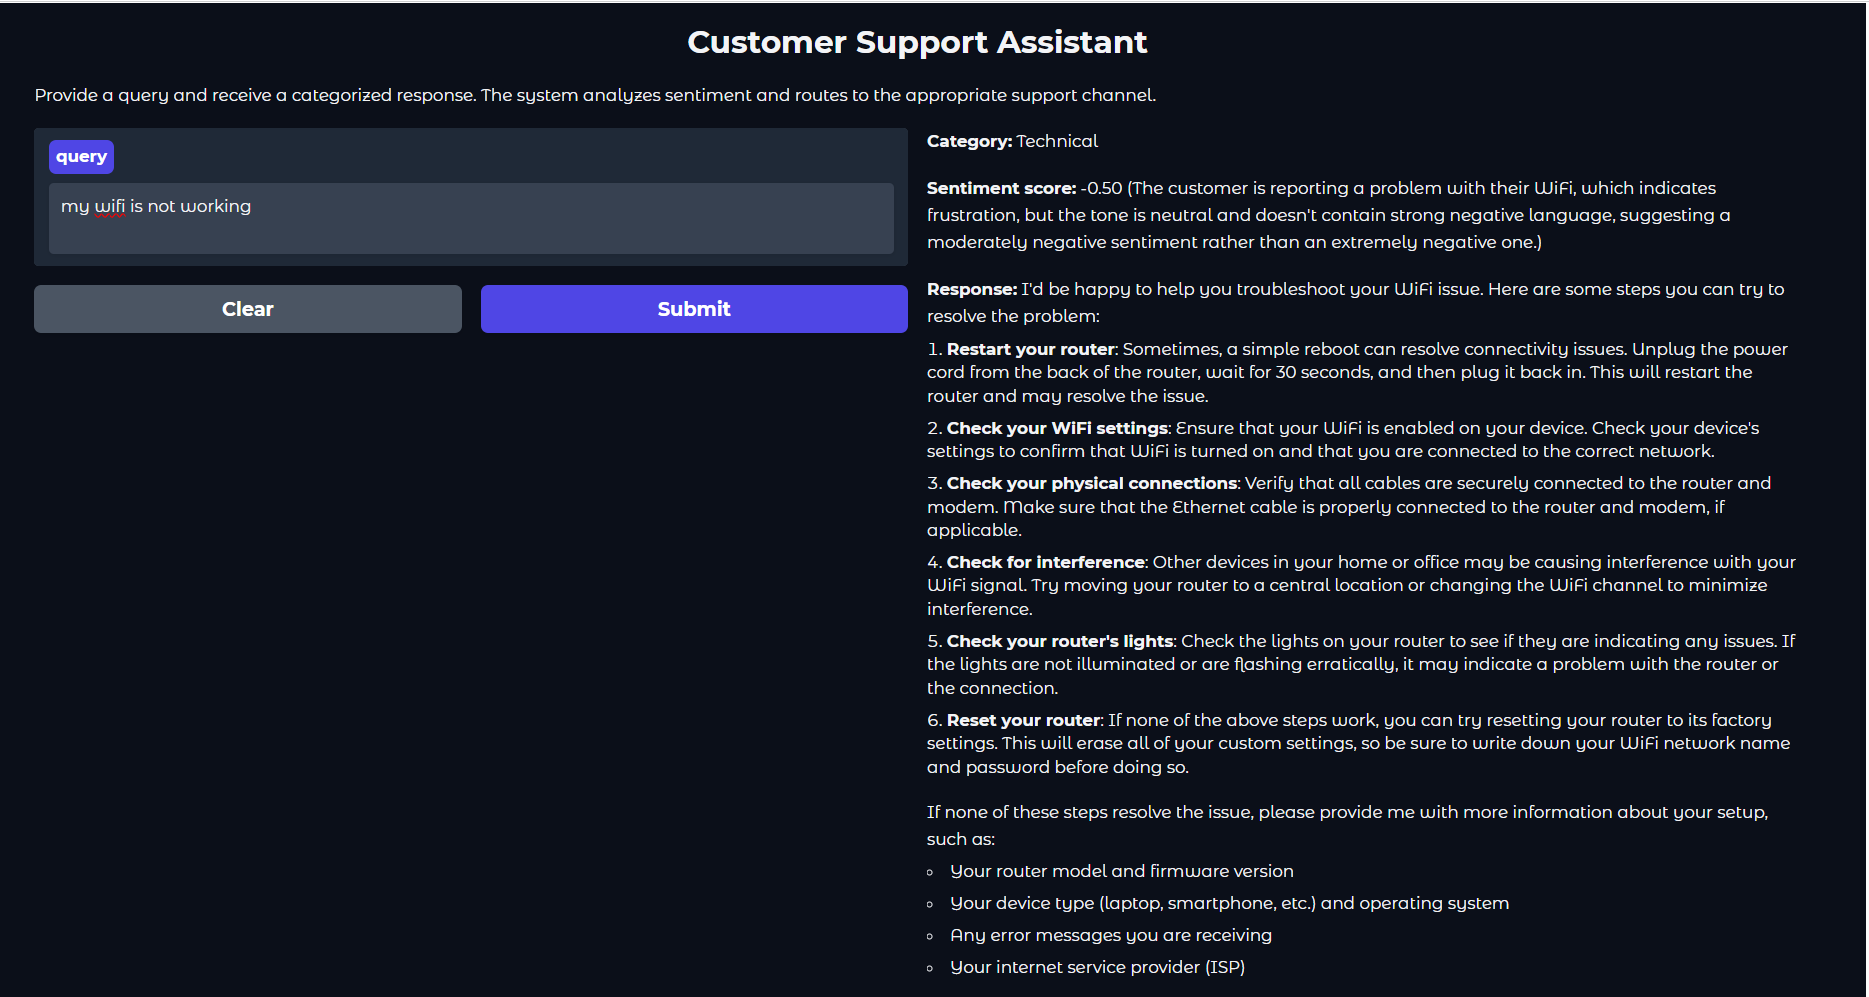
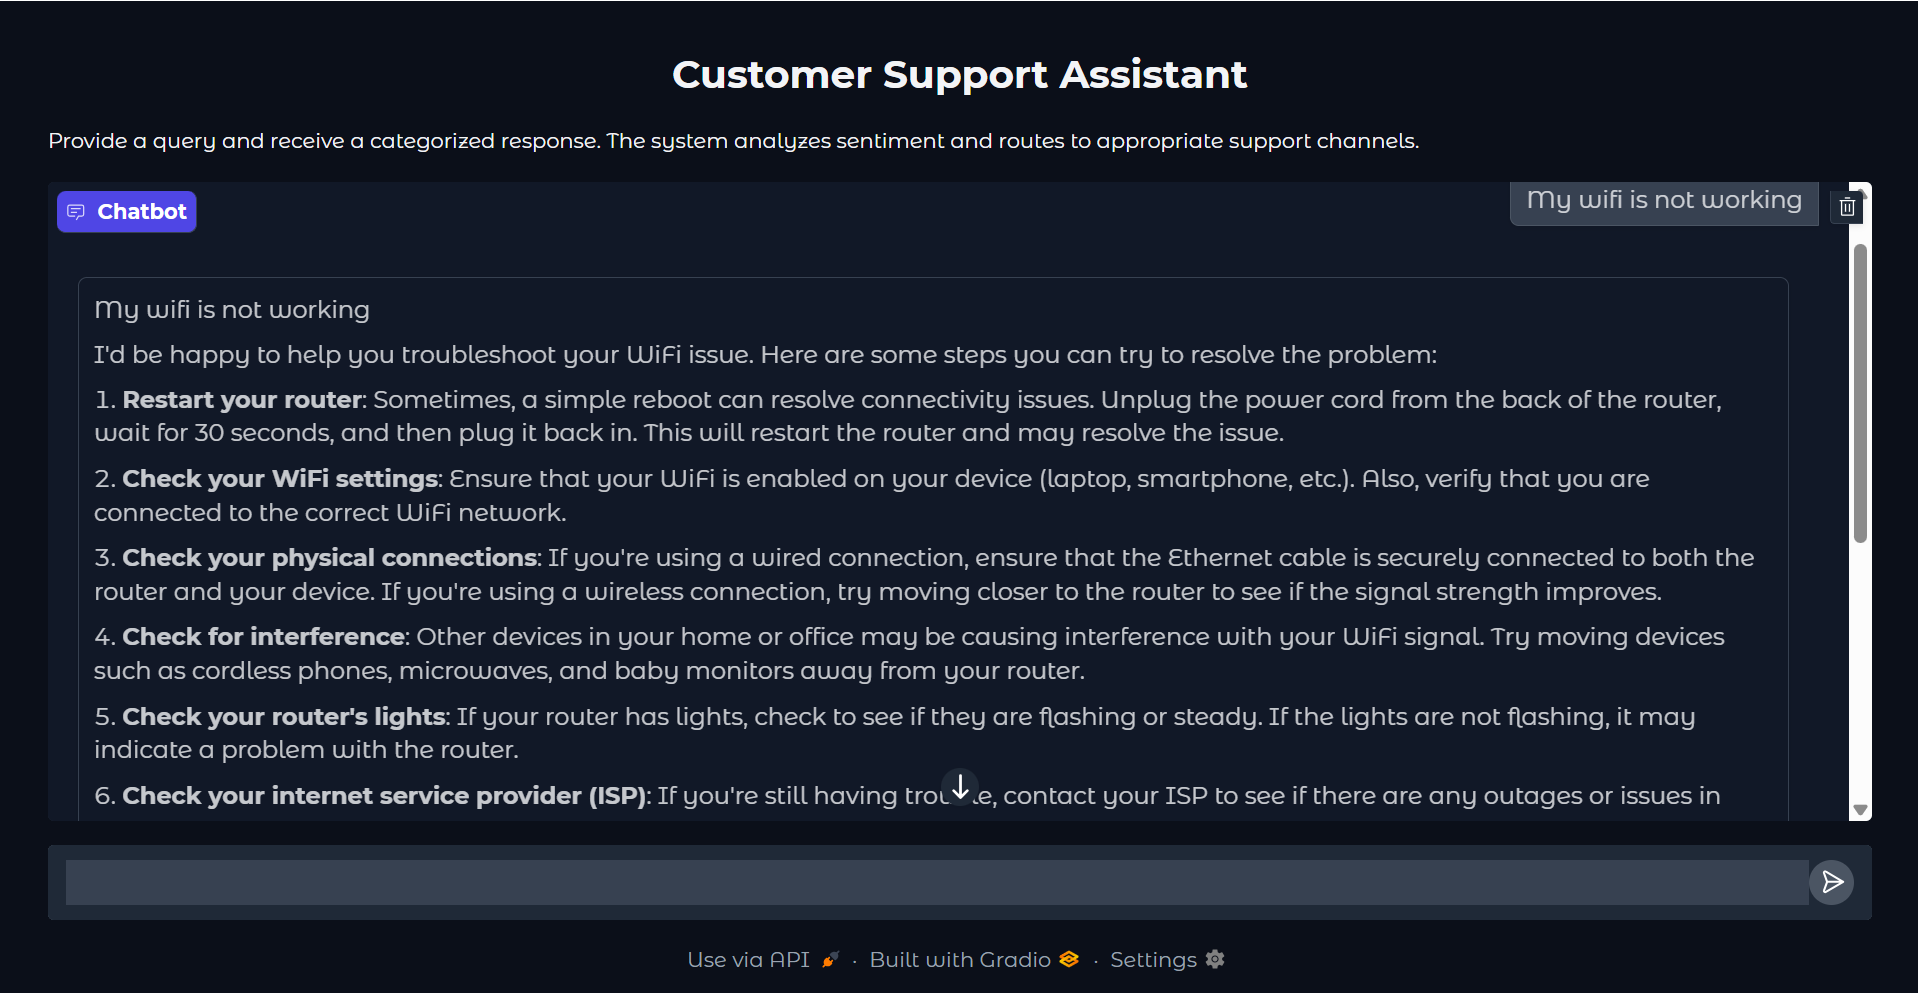
Made it interactive

Changed region(s): [[0.0, 0.0, 1.0, 1.0]]

diff --git a/ProAssistAI.py b/ProAssistAI.py
@@ -7,11 +7,14 @@ from dotenv import load_dotenv
 import os
 import re
 
+
 load_dotenv()
 groq_api_key = os.getenv("GROQ_API_KEY")
 
+
 # Emergency or escalation keywords
 EMERGENCY_KEYWORDS = ["urgent", "lawsuit", "threat", "sue", "asap", "human", "fraud", "angry", "escalate"]
+
 
 class State(TypedDict):
     query: str
@@ -21,14 +24,17 @@ class State(TypedDict):
     response: str
     history: List[Tuple[str, str]]
 
+
 llm = ChatGroq(
     temperature=0,
     groq_api_key=groq_api_key,
     model_name="llama-3.3-70b-versatile"
 )
 
+
 def _history_to_text(history: List[Tuple[str, str]]) -> str:
     return "\n".join([f"{who}: {msg}" for who, msg in history])
+
 
 def categorize(state: State) -> State:
     prompt = ChatPromptTemplate.from_template(
@@ -44,6 +50,7 @@ def categorize(state: State) -> State:
     }).content.strip()).title()
     return {**state, "category": category}
 
+
 def analyze_sentiment(state: State) -> State:
     prompt = ChatPromptTemplate.from_template(
         "Rate the customer sentiment in the following query from -1 (very negative) to 1 (very positive), and provide a brief reason for your score.\n"
@@ -57,13 +64,15 @@ def analyze_sentiment(state: State) -> State:
     reason = match.group(2).strip() if match else "N/A"
     return {**state, "sentiment_score": score, "sentiment_reason": reason}
 
+
 def handle_technical(state: State) -> State:
     prompt = ChatPromptTemplate.from_template(
-        "With this chat context:\n{history}\n Provide a technical support response to the following query: {query}" 
+        "With this chat context:\n{history}\n Provide a technical support response to the following query: {query}"
     )
     chain = prompt | llm
     response = chain.invoke({"query": state["query"], "history": _history_to_text(state['history'])}).content
     return {**state, "response": response, "history": state["history"] + [("assistant", response)]}
+
 
 def handle_billing(state: State) -> State:
     prompt = ChatPromptTemplate.from_template(
@@ -73,6 +82,7 @@ def handle_billing(state: State) -> State:
     response = chain.invoke({"query": state["query"], "history": _history_to_text(state['history'])}).content
     return {**state, "response": response, "history": state["history"] + [("assistant", response)]}
 
+
 def handle_shipping(state: State) -> State:
     prompt = ChatPromptTemplate.from_template(
         "With this chat context:\n{history}\nProvide a general support response to the following query: {query}"
@@ -80,6 +90,7 @@ def handle_shipping(state: State) -> State:
     chain = prompt | llm
     response = chain.invoke({"query": state["query"], "history": _history_to_text(state['history'])}).content
     return {**state, "response": response, "history": state["history"] + [("assistant", response)]}
+
 
 def handle_returns(state: State) -> State:
     prompt = ChatPromptTemplate.from_template(
@@ -89,6 +100,7 @@ def handle_returns(state: State) -> State:
     response = chain.invoke({"query": state["query"], "history": _history_to_text(state['history'])}).content
     return {**state, "response": response, "history": state["history"] + [("assistant", response)]}
 
+
 def handle_product_inquiry(state: State) -> State:
     prompt = ChatPromptTemplate.from_template(
         "With this chat context:\n{history}\nProvide a concise product inquiry support answer to: {query}"
@@ -96,6 +108,7 @@ def handle_product_inquiry(state: State) -> State:
     chain = prompt | llm
     response = chain.invoke({"query": state["query"], "history": _history_to_text(state['history'])}).content
     return {**state, "response": response, "history": state["history"] + [("assistant", response)]}
+
 
 def handle_general(state: State) -> State:
     prompt = ChatPromptTemplate.from_template(
@@ -105,12 +118,14 @@ def handle_general(state: State) -> State:
     response = chain.invoke({"query": state["query"], "history": _history_to_text(state['history'])}).content
     return {**state, "response": response, "history": state["history"] + [("assistant", response)]}
 
+
 def escalate(state: State) -> State:
     response = (
         "Your query has been escalated to a human agent due to urgency, strong negative sentiment, repeated issues or a direct request for escalation. "
         "A team member will reach out shortly."
     )
     return {**state, "response": response, "history": state["history"] + [("assistant", response)]}
+
 
 def needs_escalation(state: State) -> bool:
     query = state["query"].lower()
@@ -119,7 +134,8 @@ def needs_escalation(state: State) -> bool:
     if any(word in query for word in EMERGENCY_KEYWORDS):
         return True
     neg_count = sum(1 for _, msg in state["history"] if "negative" in msg.lower() or "escalate" in msg.lower())
-    return neg_count > 1  
+    return neg_count > 1
+
 
 def route_query(state: State) -> str:
     if needs_escalation(state):
@@ -135,6 +151,7 @@ def route_query(state: State) -> str:
     }
     return mapping.get(category, "handle_general")
 
+
 # --- Workflow Setup
 workflow = StateGraph(State)
 workflow.add_node("categorize", categorize)
@@ -146,6 +163,7 @@ workflow.add_node("handle_returns", handle_returns)
 workflow.add_node("handle_product_inquiry", handle_product_inquiry)
 workflow.add_node("handle_general", handle_general)
 workflow.add_node("escalate", escalate)
+
 
 workflow.add_edge("categorize", "analyze_sentiment")
 workflow.add_conditional_edges(
@@ -167,7 +185,9 @@ for final in [
 workflow.set_entry_point("categorize")
 app = workflow.compile()
 
+
 # --- Gradio Chat Interface & Input Validation
+
 
 def validate_input(message, history):
     if not message.strip():
@@ -176,6 +196,7 @@ def validate_input(message, history):
         return False, "Your input is too long (max 800 characters)."
     return True, ""
 
+
 def run_customer_support(query, history):
     start_state = {
         "query": query,
@@ -183,42 +204,56 @@ def run_customer_support(query, history):
         "sentiment_score": 0.0,
         "sentiment_reason": "",
         "response": "",
-        "history": list(history)  # maintain session convo as list of (role, message)
+        "history": list(history)  # history is already list of (role, msg)
     }
     results = app.invoke(start_state)
     return results['response'], results["category"], results["sentiment_score"], results["sentiment_reason"]
 
-def chat_fn(message, history):
-    valid, msg = validate_input(message, history)
+
+def chat_fn(user_message, chat_history=None):
+    chat_history = chat_history or []
+
+    # Normalize chat_history: convert tuples → dicts
+    normalized_history = []
+    for m in chat_history:
+        if isinstance(m, tuple) and len(m) == 2:
+            # tuple → dict
+            normalized_history.append({"role": "user", "content": m[0]})
+            normalized_history.append({"role": "assistant", "content": m[1]})
+        elif isinstance(m, dict):
+            normalized_history.append(m)
+
+    # Validate input
+    valid, msg = validate_input(user_message, normalized_history)
     if not valid:
-        history.append(("system", msg))
-        return "", history
-    response, category, sentiment_score, sentiment_reason = run_customer_support(message, history)
-    # Append user and AI messages to history
-    history.append(("user", message))
-    # AI response includes metadata:
-    meta = f"**Category:** {category}\n**Sentiment score:** {sentiment_score:.2f} ({sentiment_reason})"
-    bot_reply = f"{response}\n\n{meta}"
-    history.append(("assistant", bot_reply))
-    return "", history
+        normalized_history.append({"role": "assistant", "content": msg})
+        return normalized_history
 
-def gradio_interface(query: str):
-    response, category, sentiment_score, sentiment_reason = run_customer_support(query, [])
-    return (
-        f"**Category:** {category}\n\n"
-        f"**Sentiment score:** {sentiment_score:.2f} ({sentiment_reason})\n\n"
-        f"**Response:** {response}"
-    )
+    # Convert history back into (role, msg) tuples for LangGraph
+    lg_history = [(m["role"], m["content"]) for m in normalized_history if m["role"] in ["user", "assistant"]]
 
-gui = gr.Interface(
-    fn=gradio_interface, 
+    # Run workflow
+    response, category, sentiment_score, sentiment_reason = run_customer_support(user_message, lg_history)
+
+    # Add metadata
+    meta = f"<p style='font-size:14px'><b>Category:</b> {category}<br><b>Sentiment score:</b> {sentiment_score:.2f} ({sentiment_reason})</p>"
+    full_response = f"{response}\n\n{meta}"
+
+    # Update history
+    normalized_history.append({"role": "user", "content": user_message})
+    normalized_history.append({"role": "assistant", "content": full_response})
+
+    return normalized_history
+
+
+
+# Use Gradio's ChatInterface for interactive conversation with history tracking
+gui = gr.ChatInterface(
+    fn=chat_fn,
     theme="soft",
-    inputs=gr.Textbox(lines=2, placeholder="Enter your query here..."),
-    outputs=gr.Markdown(),
     title="Customer Support Assistant",
-    description="Provide a query and receive a categorized response. The system analyzes sentiment and routes to the appropriate support channel.",
-    allow_flagging="never" 
-    )
-# Launch the app
+    description="Provide a query and receive a categorized response. The system analyzes sentiment and routes to appropriate support channels.",
+)
+
 if __name__ == "__main__":
     gui.launch()

diff --git a/README.md b/README.md
@@ -5,15 +5,13 @@ An intelligent customer support agent leveraging AI-driven multi-agent workflows
 ---
 
 ## Features
-
-- **Query Categorization:** Classifies customer queries into categories such as Technical, Billing, Shipping, Returns, Product Inquiry, and General.
-- **Sentiment Analysis:** Analyzes the sentiment of customer queries on a scale from very negative (-1.0) to very positive (1.0).
-- **Automated Response Generation:** Generates tailored responses based on the query category and sentiment.
-- **Escalation Handling:** Automatically escalates queries with strong negative sentiment or containing urgent/emergency keywords to human agents.
-- **Dynamic Conditional Routing:** Routes queries intelligently based on category and urgency using a flexible LangGraph workflow.
-- **Session Conversation Tracking:** Maintains conversation history for contextual understanding and more coherent responses.
-- **Gradio-powered Chat Interface:** Offers a user-friendly interface for interactive customer support simulation.
-- **Extensible Workflow:** Built with LangGraph for easy customization and expansion of support logic.
+- **Query Categorization:** Classifies customer queries into categories such as Technical, Billing, Shipping, Returns, Product Inquiry, and General.  
+- **Sentiment Analysis:** Analyzes the sentiment of customer queries on a scale from very negative (-1.0) to very positive (1.0).    
+- **Escalation Handling:** Automatically escalates queries with strong negative sentiment or containing urgent/emergency keywords to human agents.  
+- **Dynamic Conditional Routing:** Routes queries intelligently based on category and urgency using a flexible LangGraph workflow.  
+- **Session Conversation Tracking:** Maintains conversation history for contextual understanding and more coherent responses.  
+- **Gradio-powered Chat Interface:** Offers a user-friendly interface for interactive customer support simulation.  
+- **Interactive Chatbot Experience:** Allows real-time, two-way interaction with the bot where users can type queries and receive live responses.  
 
 ---
 
@@ -52,10 +50,9 @@ After setting your Groq API key in a `.env` file (`GROQ_API_KEY=your_key_here`),
 
 ## Example Interaction
 
-- ![Wifi not working](https://i.postimg.cc/DwzHWhQR/wifi.png)
+![Wifi not working](https://i.postimg.cc/28yWQBpN/wifi.png)
+![Wifi not working](https://i.postimg.cc/VNW5QYyF/wifi2.png)
+![Escalation](https://i.postimg.cc/pTVb9vmk/escalation.png)
+![Shipping](https://i.postimg.cc/hPBwhgNm/shipping.png) 
+![Shipping](https://i.postimg.cc/bvsV4vS7/shipping2.png)
 
-
-- ![Escalation](https://i.postimg.cc/NFYPQvfJ/escalation.png)
-
-
-- ![Shipping](https://i.postimg.cc/RhMGj1X2/shipping.png) 
